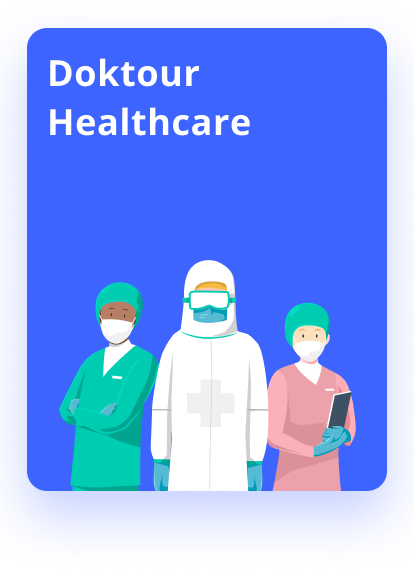
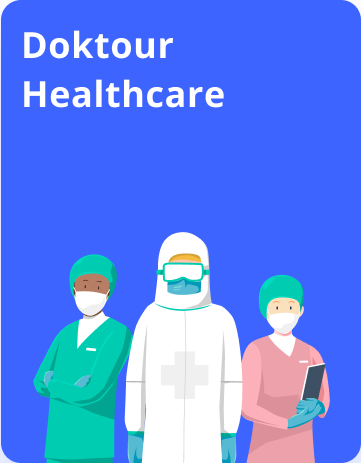
Finish SOS screen and implement Patient details

diff --git a/screen/HospitalSOS.tsx b/screen/HospitalSOS.tsx
@@ -20,36 +20,37 @@ const HospitalSOS = ({navigation}) => {
               width: "100%",
               height: 450,
               resizeMode: "contain",
-              marginBottom: -40,
             }}
             resizeMethod="scale"
             source={require("../assets/HospitalSOSBanner.png")}
           />
         </View>
-        <View style={styles.sosButton}>
-          <TouchableOpacity
-            onPress={() => {
-              navigation.navigate("Patient Information");
-            }}>
-            <Image
-              style={{
-                width: 180,
-                height: 180,
-                resizeMode: "contain",
-                alignSelf: "center",
-              }}
-              resizeMethod="scale"
-              source={require("../assets/SOSButton.png")}
-            />
-          </TouchableOpacity>
-        </View>
-        <View style={styles.buttonContainer}>
-          <TouchableOpacity
-            onPress={() => {
-              navigation.navigate("Patient Information");
-            }}>
-            <Text style={styles.text}>SOS Dashboard</Text>
-          </TouchableOpacity>
+        <View style={styles.bottomContainer}>
+          <View style={styles.sosButton}>
+            <TouchableOpacity
+              onPress={() => {
+                navigation.navigate("Patient Information");
+              }}>
+              <Image
+                style={{
+                  width: 180,
+                  height: 180,
+                  resizeMode: "contain",
+                  alignSelf: "center",
+                }}
+                resizeMethod="scale"
+                source={require("../assets/SOSButton.png")}
+              />
+            </TouchableOpacity>
+          </View>
+          <View style={styles.buttonContainer}>
+            <TouchableOpacity
+              onPress={() => {
+                navigation.navigate("Patient Information");
+              }}>
+              <Text style={styles.title}>SOS Dashboard</Text>
+            </TouchableOpacity>
+          </View>
         </View>
       </View>
     </ScrollView>
@@ -57,11 +58,22 @@ const HospitalSOS = ({navigation}) => {
 };
 
 const styles = StyleSheet.create({
-  container: {flex: 1},
-  imageContainer: {
+  container: {
     flex: 1,
+    flexDirection: "column",
+    justifyContent: "space-between",
+    backgroundColor: "D0D6EA",
+  },
+  imageContainer: {
+    flexGrow: 1,
+    marginTop: "10%",
     alignItems: "center",
     justifyContent: "center",
+  },
+  bottomContainer: {
+    marginTop: "15%",
+    flexGrow: 1,
+    justifyContent: "flex-end",
   },
   buttonContainer: {
     flex: 1,
@@ -73,8 +85,8 @@ const styles = StyleSheet.create({
     justifyContent: "center",
     borderRadius: 50,
   },
-  text: {color: "white", fontSize: 20},
-  sosButton: {paddingBottom: 20},
+  title: {color: "white", fontSize: 20},
+  sosButton: {paddingBottom: "15%"},
 });
 
 export default HospitalSOS;

diff --git a/screen/PatientInformation.tsx b/screen/PatientInformation.tsx
@@ -1,18 +1,91 @@
-import {Button, Text, View} from "react-native";
-
+import {Button, StyleSheet, Text, View} from "react-native";
+import {FontSize, Border, Color} from "../GlobalStyle/GlobalStyles";
+import DropDownPicker from "react-native-dropdown-picker";
+import {useState} from "react";
 // @ts-ignore
 const PatientInformation = ({navigation}) => {
+  const [open, setOpen] = useState(false);
+  const [value, setValue] = useState("");
+  const [items, setItems] = useState([
+    {label: "Spain", value: "spain"},
+    {label: "Madrid", value: "madrid", parent: "spain"},
+    {label: "Barcelona", value: "barcelona", parent: "spain"},
+    {label: "Italy", value: "italy"},
+    {label: "Rome", value: "rome", parent: "italy"},
+    {label: "Finland", value: "finland"},
+  ]);
   return (
-    <View>
-      <Text> PatientInformation </Text>
+    <View style={styles.container}>
+      <View style={styles.textContainer}>
+        <Text style={styles.title}> PatientInformation </Text>
+      </View>
+      <View style={styles.selectionSection}>
+        <Text style={styles.specialtyText}>Specialty in need</Text>
+        <DropDownPicker
+          placeholder="Select specialty"
+          setValue={setValue}
+          value={value}
+          items={items}
+          open={open}
+          setOpen={setOpen}
+          setItems={setItems}
+          zIndexInverse={2}
+          style={{
+            backgroundColor: Color.darkgray,
+          }}
+          textStyle={{
+            color: Color.darkslategray_100,
+            fontWeight: "bold",
+          }}
+          containerStyle={{
+            borderColor: Color.darkgray,
+            borderStyle: "dotted",
+          }}
+          dropDownContainerStyle={{
+            backgroundColor: Color.darkgray,
+            zIndex: 2,
+          }}
+        />
+        <Text style={styles.titleBold}>Patient Details</Text>
+      </View>
       <Button
         title={"SOS"}
         onPress={() => {
-          navigation.navigate("SOS");
+          navigation.navigate("Hospital SOS");
         }}
       />
     </View>
   );
 };
+
+const styles = StyleSheet.create({
+  container: {flex: 1, backgroundColor: Color.white, zIndex: 1},
+  textContainer: {
+    height: "10%",
+    justifyContent: "center",
+    alignSelf: "center",
+  },
+  title: {
+    color: Color.darkslategray_100,
+    fontSize: FontSize.size_lg,
+    fontWeight: "200",
+  },
+  titleBold: {
+    marginTop: Border.br_xl,
+    color: Color.darkslategray_100,
+    fontSize: FontSize.size_lg,
+    fontWeight: "bold",
+  },
+  specialtyText: {
+    color: Color.slategray_100,
+    fontSize: FontSize.size_sm,
+    paddingBottom: Border.br_3xs,
+  },
+  selectionSection: {
+    flexGrow: 1,
+    width: "90%",
+    alignSelf: "center",
+  },
+});
 
 export default PatientInformation;

diff --git a/GlobalStyle/GlobalStyles.ts b/GlobalStyle/GlobalStyles.ts
@@ -33,7 +33,7 @@ export const Color = {
   white: "#fff",
   slategray_100: "#6b779a",
   slategray_200: "rgba(107, 119, 154, 0.05)",
-  darkgray: "#979797",
+  darkgray: "#f8f8fa",
   deepskyblue_100: "#20a4f3",
   darkslategray_100: "#222b45",
   greenPrimary: "#5db075",

diff --git a/App.tsx b/App.tsx
@@ -73,7 +73,7 @@ const App = () => {
     <NavigationContainer>
       <Stack.Navigator>
         <Stack.Screen
-          name={"Hospital SOS "}
+          name={"Hospital SOS"}
           component={HospitalSOS}
           options={{headerShown: false}}
         />
